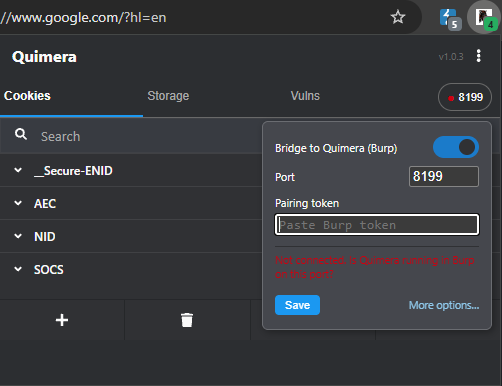
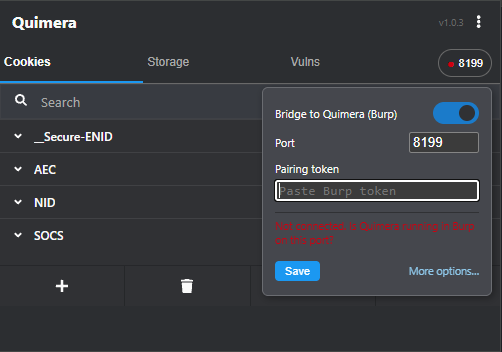
Crop README screenshots and swap suggestions section for a Contributing one
Removes side padding from the two Options screenshots and the browser
chrome/URL bar from the popup screenshots. Replaces the redundant
"find me on GitHub" section with a Contributing one, matching Quimera-burp's.

diff --git a/README.md b/README.md
@@ -215,9 +215,11 @@ Cookie-Editor by Christophe Gagnier is a separate, independently published exten
 Chrome Web Store, Firefox Add-ons, the App Store, Microsoft Store and Opera Add-ons, see its own site
 for those links. This fork isn't published on any of them.
 
-## Feature suggestions or bug reports
+## Contributing
 
-[Find me on GitHub](https://github.com/B3XAL).
+Contributions and feature requests are welcome. See [`CONTRIBUTING.md`](CONTRIBUTING.md) for build
+instructions and the project's hard requirements. If you're adding a detection check, `content/engine.js`'s
+own comments document the severity reasoning every check is expected to follow, read it first.
 
 ## License
 
